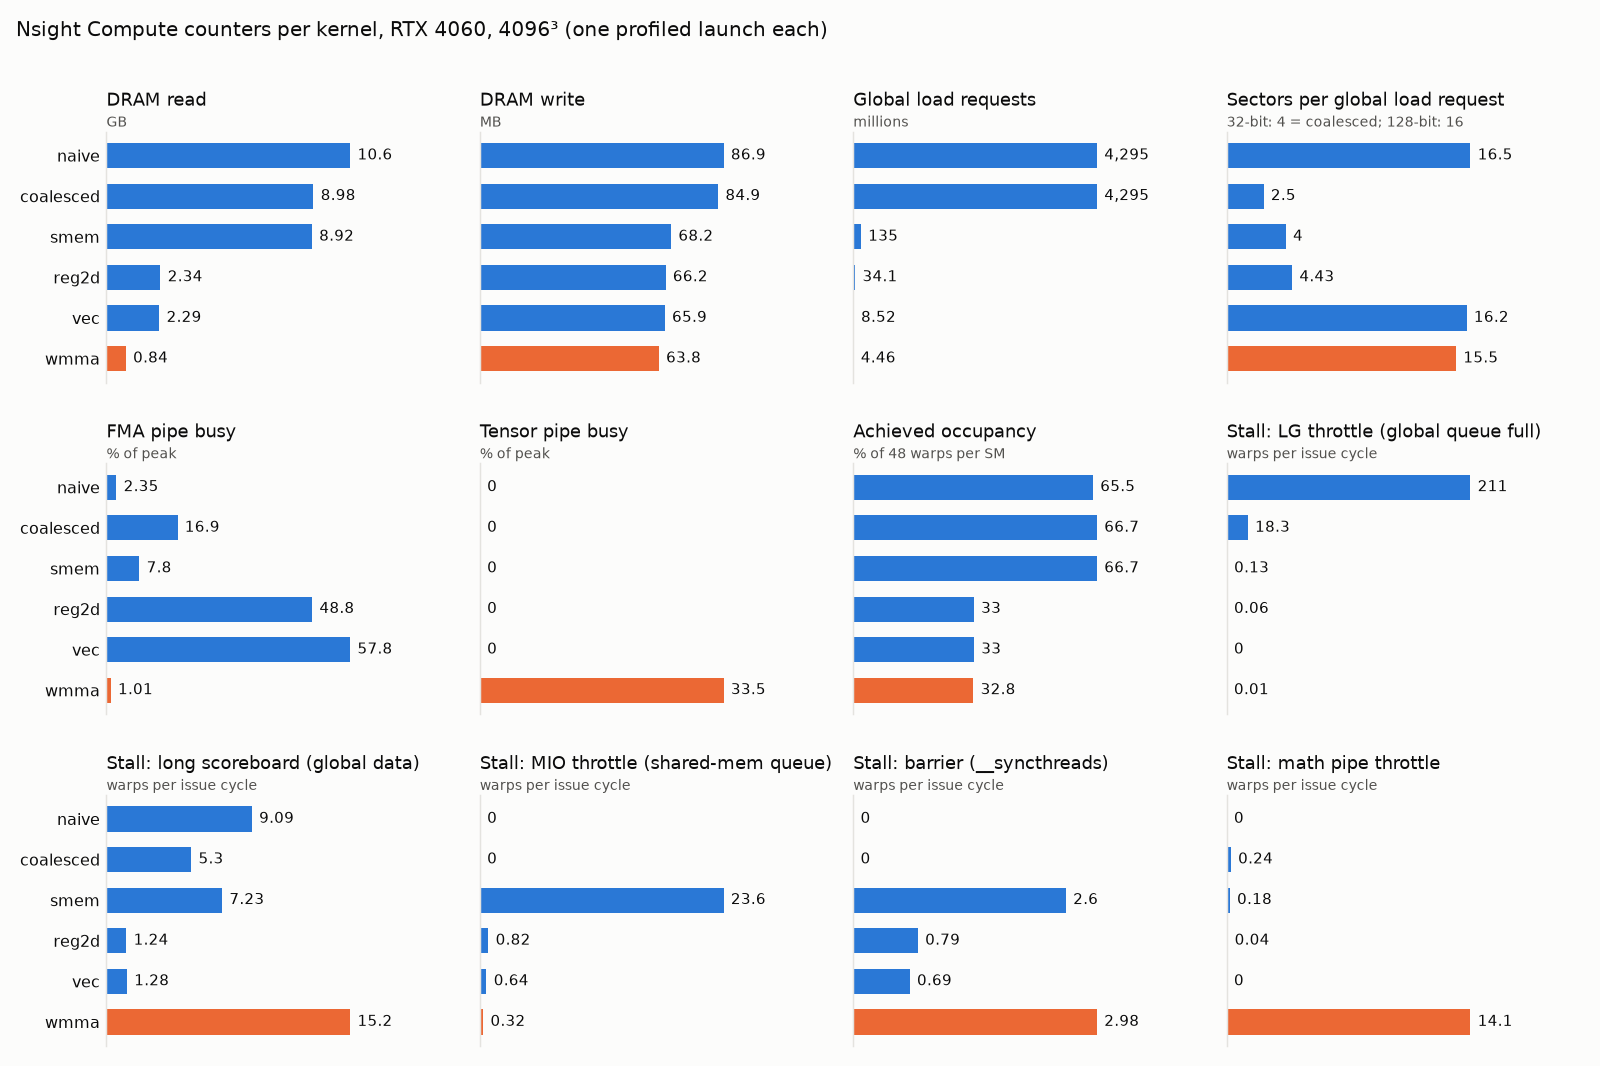
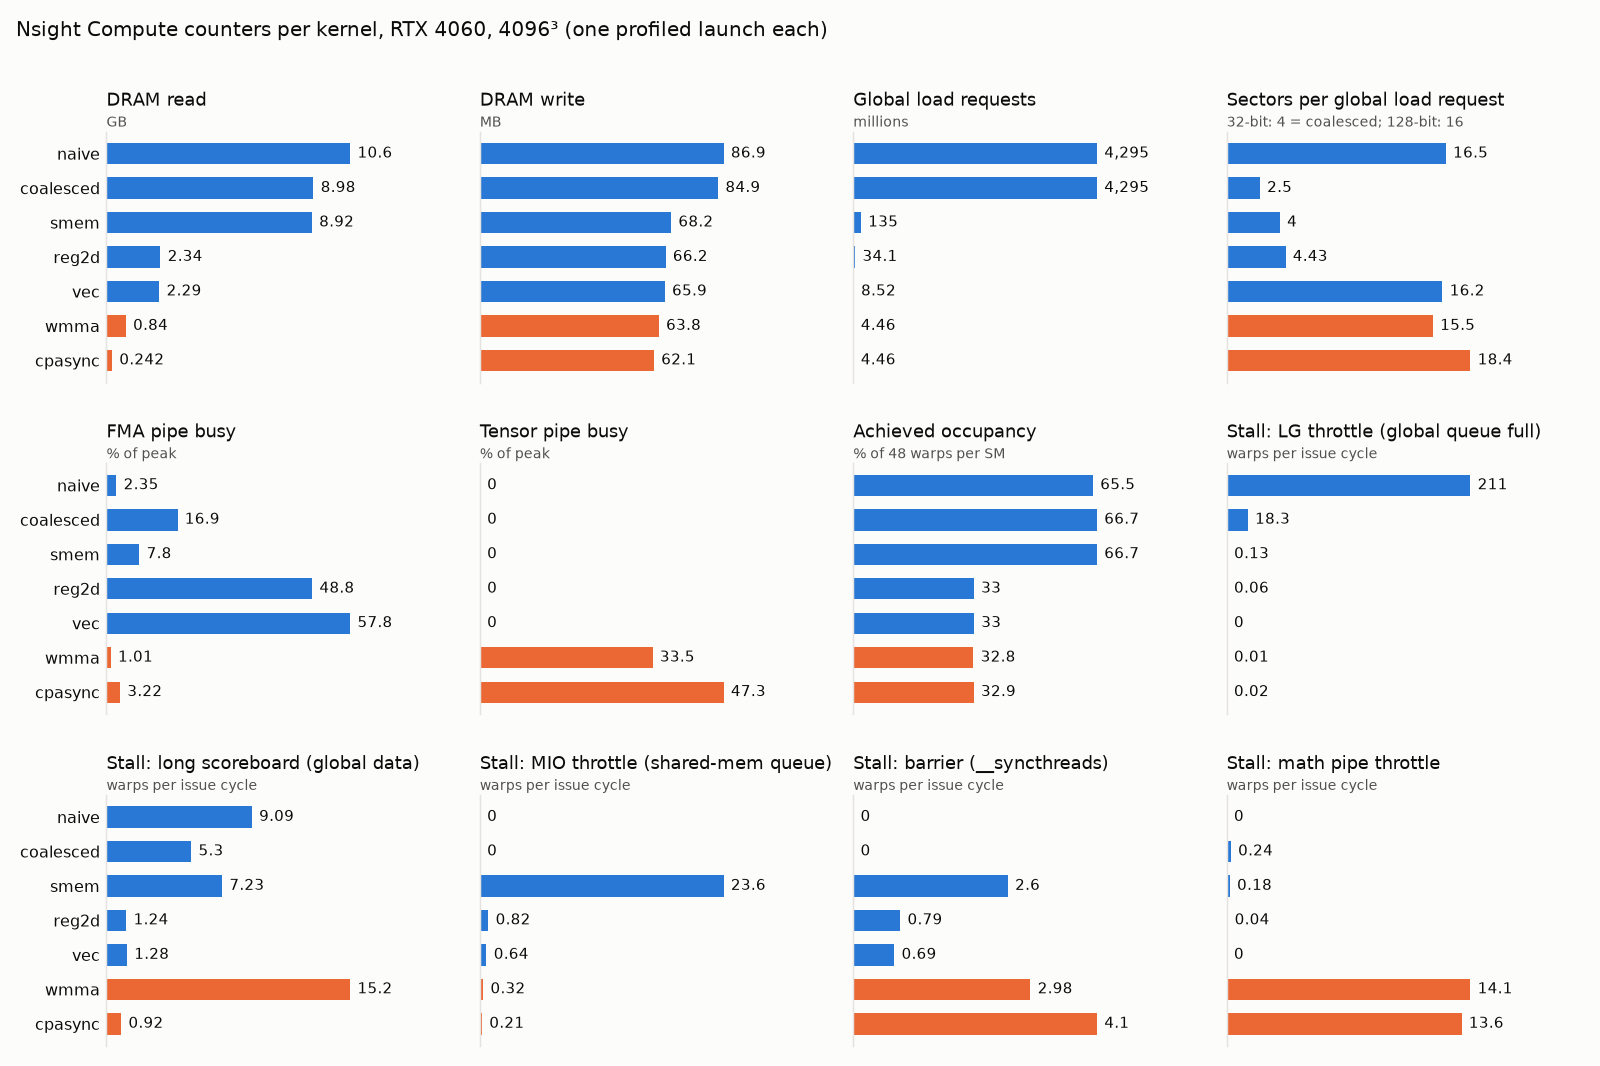
Document step 7, naive baseline and journal

diff --git a/docs/journal/2026-11-12-cpasync.md b/docs/journal/2026-11-12-cpasync.md
@@ -1,0 +1,58 @@
+# 2026-11-12: overlapping loads with tensor-core math
+
+**Question.** `wmma` (step 6) reaches 65% of FP16 cuBLAS. Is the gap the missing load/compute overlap, and how much does `cp.async` double buffering close?
+
+## Background
+
+A GPU hides memory latency by switching to warps that are ready. In step 6 every warp of a block reaches the same `__syncthreads` after each load, so they all wait at once:
+
+```
+wmma, one K tile:     [load A,B -> regs -> smem] | sync | [MMA x16] | sync | [load ...
+tensor cores:          idle ....................          busy          idle ...
+```
+
+Ampere added `cp.async`: a global-to-shared copy that bypasses registers and does not block. A thread issues copies, closes them into a group, and later waits until at most N groups remain in flight. With two buffers, tile t+1 is copied while tile t is multiplied:
+
+```
+cpasync:  copy t+1 -> buf[(t+1)%2]  (async, in flight)
+          MMA on buf[t%2]              <- overlaps the copy
+          wait copy t+1; sync; swap
+```
+
+The hazard is refilling a buffer still being read: buffer `(t+1)%2` held tile t-1. One barrier per tile, after the wait and before the next copies, covers both conditions: data in, old readers out.
+
+## What was tried
+
+1. **Two barriers per tile** (copy t+1, wait for t, sync, compute, sync). Three runs at 4096: 26,603 / 26,070 / 27,382 GFLOPS (82–87%). The barrier stall doubled (3.0 to 6.3) as long scoreboard fell (15.3 to 1.7).
+2. **One barrier per tile** as above, blocks in row-major order: 27,682 GFLOPS (92.1%).
+3. **Grouped block order.** Counters for variant 2 showed DRAM, not math, was next:
+
+```
+                            kGroup=1      kGroup=8
+dram__bytes_read.sum        1078391424    242438400
+lts__t_sector_hit_rate.pct  67.92         92.76
+gpu__time_duration.sum      4959744 ns    4764256 ns
+tensor pipe % of peak       45.47         47.30
+```
+
+   1.08 GB in 4.96 ms is 217 GB/s of a 264 GB/s peak: the resident blocks stream all of B through the 24 MB L2 once per block row. Launching blocks column by column within 8-row groups cut DRAM reads 4.4x. Final: 28,823 GFLOPS, 95.3% of cuBLAS (median of three).
+
+## SASS
+
+```
+LDGSTS.E.BYPASS.128   global -> shared, 16 B, L1 bypassed (cp.async.cg)
+LDGDEPBAR             cp.async.commit_group
+DEPBAR.LE SB0         cp.async.wait_group
+REG:122 SHARED:37888  (wmma: REG:126 SHARED:18944)
+```
+
+## What it showed
+
+- The gap was load latency, as predicted: long-scoreboard stalls fell from 15.2 to 0.92.
+- Overlap exposed a second limit: L2 capacity against block order.
+- Dead end: a sweep of group sizes 4, 8 and 16 (two runs each) gave 30.0–30.8, 29.7–30.5 and 28.8–30.7 TFLOP/s: no difference beyond the noise of this 115 W card.
+- Ceiling: the tensor pipe tops out just under 50% of its counter peak. GeForce Ada runs FP32-accumulate HMMA at half the FP16-accumulate rate, so about 47% is close to the hardware limit.
+
+## Next decision
+
+FP8 (step 8) needs `mma.sync` PTX: WMMA has no FP8 fragments on sm_89. FP8 `ldmatrix` cannot transpose 8-bit data, so B must be stored K-major (N x K). The quantize pass that produces FP8 can write that layout for free.

diff --git a/docs/steps/7-cpasync.md b/docs/steps/7-cpasync.md
@@ -1,0 +1,35 @@
+# Step 7: cp.async double buffering
+
+Source: [src/cpasync.cu](../../src/cpasync.cu). RTX 4060, 4096³: 28,823 GFLOPS, 95.3% of cuBLAS FP16 (`wmma`: 20,731, 65.3%).
+
+## What changed
+
+The math is step 6's: the same 128x128 block tile, 64x32 warp tiles and WMMA fragments. Two things around it changed:
+
+1. **Pipelined K loop.** A and B each get two shared-memory buffers. `cp.async` copies 16 bytes from global to shared memory without passing through registers. While the warps multiply tile `t` from one buffer, tile `t+1` lands in the other.
+2. **Grouped block order.** Block `i` maps to a tile of C column by column inside groups of 8 block rows (`kGroup`), not row by row.
+
+One `__syncthreads` per K tile is enough. At the top of iteration `t`, each thread waits for its own copies of tile `t`. The barrier then makes all copies visible and guarantees every warp has finished tile `t-1`. Only after it are tile `t+1`'s copies issued, into tile `t-1`'s buffer.
+
+## Why it is faster
+
+In `wmma` each K tile goes load, barrier, compute, barrier, so the tensor cores sit out every load: long-scoreboard stalls of 15.2 warps per issue cycle, with the tensor pipe 33.5% busy. Here those stalls fall to 0.92 and the tensor pipe rises to 47.3%. The SASS shows `LDGSTS.E.BYPASS.128` (the `.cg` copy skips L1), `LDGDEPBAR` per commit and `DEPBAR.LE SB0` per wait. With no staging registers the kernel uses 122 registers and 37,888 bytes of shared memory, so two blocks still fit on each SM.
+
+## Grouped block order
+
+Pipelining alone reached 27,682 GFLOPS. Its counters showed DRAM reads of 1.08 GB, although A and B total 64 MB. The 48 resident blocks span about 1.5 block rows and read all 32 MB of B, which does not fit in the 24 MB L2, so every block row fetches B from DRAM again. In groups of 8 rows, the resident blocks touch about 14 MB.
+
+| Block order | GFLOPS | % cuBLAS | DRAM read | L2 hit rate |
+|---|---:|---:|---:|---:|
+| Row-major (`kGroup = 1`) | 27,682 | 92.1 | 1,078 MB | 67.9% |
+| Groups of 8 rows | 28,823 | 95.3 | 242 MB | 92.8% |
+
+Raw data: [cpasync-order.csv](../results/cpasync-order.csv). Groups of 4 and 16 fall within run-to-run noise of groups of 8.
+
+## What limits it now
+
+The tensor pipe: math-pipe throttle is the top stall (13.6), ahead of the barrier (4.1). GeForce Ada runs FP16 MMA with FP32 accumulation at half the FP16-accumulate rate (Ada whitepaper). The roofline's 61.5 TFLOP/s ceiling is the counter's full rate, so about half of it is reachable. That fits cuBLAS at 30–32 TFLOP/s and the pipe stopping just under 50%. The card is power-limited (115 W), so cuBLAS varies 2–3 points from run to run.
+
+## Profile
+
+Nsight Compute, one profiled launch at 4096³: 451.49 FLOP per DRAM byte and 28,839.9 GFLOP/s ([roofline](../roofline.png), [raw counters](../results/ncu-rtx4060.csv); profiled 2026-11-12). SASS from `cuobjdump -sass` and `-res-usage` (CUDA 13.3, sm_89). Process notes: [journal](../journal/2026-11-12-cpasync.md).

diff --git a/docs/steps/1-naive.md b/docs/steps/1-naive.md
@@ -1,0 +1,31 @@
+# Step 1: naive
+
+Source: [src/naive.cu](../../src/naive.cu). RTX 4060, 4096³: 123.6 GFLOPS, 1.7% of cuBLAS. This is the baseline every later step is measured against.
+
+## What it does
+
+One thread per element of C. A 32x32 block covers a 32x32 patch of C; thread `(x, y)` computes row `blockIdx.x * 32 + x` and column `blockIdx.y * 32 + y` as a K-long dot product, reading A and B straight from global memory, then writes `alpha * acc + beta * C`.
+
+## Why it is slow
+
+**Uncoalesced access.** `threadIdx.x` picks the row, so the 32 threads of a warp work on 32 different rows of one column. On each k step:
+
+- the warp's A load touches 32 addresses 16 KB apart, so 32 separate 32-byte sectors for 128 useful bytes;
+- the B load is one address, broadcast to the warp;
+- the final store of C also scatters across 32 sectors.
+
+Nsight Compute counts 16.5 sectors per global load request (perfectly coalesced 32-bit loads give 4), and 10.6 GB read from DRAM for 192 MB of inputs and output. The caches keep part of each sector until a neighbouring k uses it, but not enough of them.
+
+**No reuse.** Every FMA needs two global loads. Even with perfect coalescing, the loads per FMA would limit the kernel to the cache bandwidth, not the FMA units.
+
+The SASS confirms the shape: the K loop is unrolled 4x, and the kernel has 59 `LDG.E` against 30 `FFMA`, with 40 registers per thread. The load/store unit is swamped. The top stall is LG throttle (the global-memory instruction queue is full) at 211 warps per issue cycle, and the FMA pipe is 2.35% busy.
+
+## What limits it
+
+Memory access pattern, not arithmetic. At 115 GFLOP/s in the profiled run, the kernel uses under 1% of the FP32 peak (15.4 TFLOP/s). Step 2 changes only the mapping from threads to C, so warps read B and write C contiguously.
+
+## Profile
+
+Nsight Compute, one profiled launch at 4096³: 12.89 FLOP per DRAM byte and 115.4 GFLOP/s ([roofline](../roofline.png), [raw counters](../results/ncu-rtx4060.csv)). Instruction counts are from `cuobjdump -sass` and `cuobjdump -res-usage` (CUDA 13.3, sm_89).
+
+Counters ([chart](../img/counters.png)): sectors per request 16.5, DRAM read 10.6 GB, LG throttle 211, long scoreboard 9.09 warps per issue cycle.

diff --git a/README.md b/README.md
@@ -4,14 +4,15 @@ Matrix multiply in CUDA, built step by step from a naive kernel to tensor cores,
 
 | Step | Kernel | Idea | GFLOPS (4096³) | % cuBLAS |
 |---|---|---|---:|---:|
-| 1 | `naive` | One thread per output | 123.6 | 1.7 |
+| 1 | [`naive`](docs/steps/1-naive.md) | One thread per output | 123.6 | 1.7 |
 | 2 | [`coalesced`](docs/steps/2-coalesced.md) | Warps read B and write C contiguously | 864.3 | 12.4 |
 | 3 | [`smem`](docs/steps/3-smem.md) | Shared-memory tiles | 1,187 | 16.3 |
 | 4 | [`reg2d`](docs/steps/4-reg2d.md) | 2D register blocking per thread | 6,545 | 80.4 |
 | 5 | [`vec`](docs/steps/5-vec.md) | 128-bit loads, transposed A tile | 7,053 | 88.1 |
 | 6 | [`wmma`](docs/steps/6-wmma.md) | Tensor cores (FP16 in, FP32 accumulate) | 20,731 | 65.3 |
+| 7 | [`cpasync`](docs/steps/7-cpasync.md) | `cp.async` double buffering, grouped block order | 28,823 | 95.3 |
 
-Measured on an RTX 4060 (sm_89, CUDA 13.3), median of three runs ([raw](docs/results/rtx4060.csv)). `wmma` is compared with FP16-input cuBLAS.
+Measured on an RTX 4060 (sm_89, CUDA 13.3), median of three runs ([raw](docs/results/rtx4060.csv)). `wmma` and `cpasync` are compared with FP16-input cuBLAS.
 
 ![Roofline of every kernel on the RTX 4060](docs/roofline.png)
 
@@ -41,7 +42,7 @@ make bench ARCH=sm_89 KERNEL=vec  # on a GPU: time, GFLOPS, % cuBLAS, error as C
 | `src/<step>.cu` | One kernel per step |
 | `src/bench.cu` | Harness: timing, cuBLAS reference, error check |
 | `scripts/` | Roofline, counter and tiling plots from the result CSVs |
-| `docs/steps/` | One note per step |
+| `docs/steps/`, `docs/journal/` | One note per step; dated process notes |
 | `docs/results/` | Raw benchmark and Nsight Compute CSVs |
 
 ## Results and verification
@@ -54,7 +55,6 @@ make bench ARCH=sm_89 KERNEL=vec  # on a GPU: time, GFLOPS, % cuBLAS, error as C
 
 - One GPU (RTX 4060 under WSL2); results on other architectures will differ.
 - Tiled kernels need M, N and K to be multiples of 128; there is no edge handling.
-- No double buffering or `cp.async`: loads and math do not overlap, which is the main gap left in `wmma`.
 
 ## Related projects
 

diff --git a/docs/running.md b/docs/running.md
@@ -10,7 +10,7 @@ The README numbers come from an RTX 4060 (sm_89, CUDA 13.3, WSL2):
 make bench ARCH=sm_89 KERNEL=vec
 ```
 
-`bench` times each size against cuBLAS on the same inputs and prints CSV: milliseconds, GFLOPS, % of cuBLAS and `max_rel_err`. It exits non-zero when the error exceeds the tolerance (1e-4 for FP32 kernels, 1e-3 for the FP16-input `wmma`).
+`bench` times each size against cuBLAS on the same inputs and prints CSV: milliseconds, GFLOPS, % of cuBLAS and `max_rel_err`. It exits non-zero when the error exceeds the tolerance (1e-4 for FP32 kernels, 1e-3 for the FP16-input `wmma` and `cpasync`).
 
 Time only when `nvidia-smi` shows the GPU idle; other work on the GPU slows cuBLAS and the kernel unevenly. Raw runs are in [results/rtx4060.csv](results/rtx4060.csv).
 
